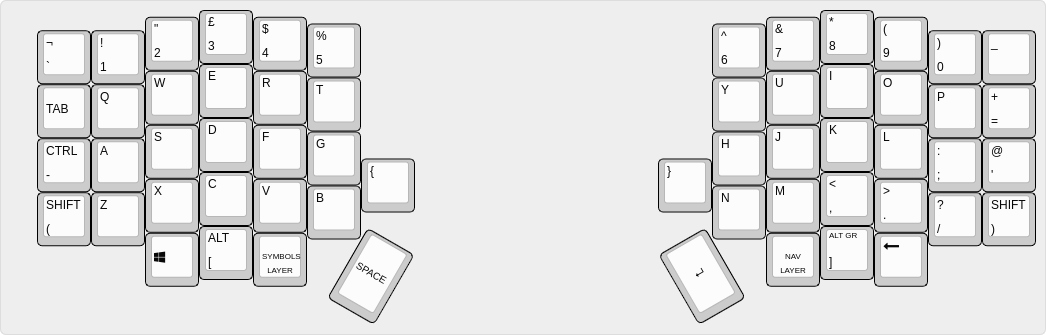
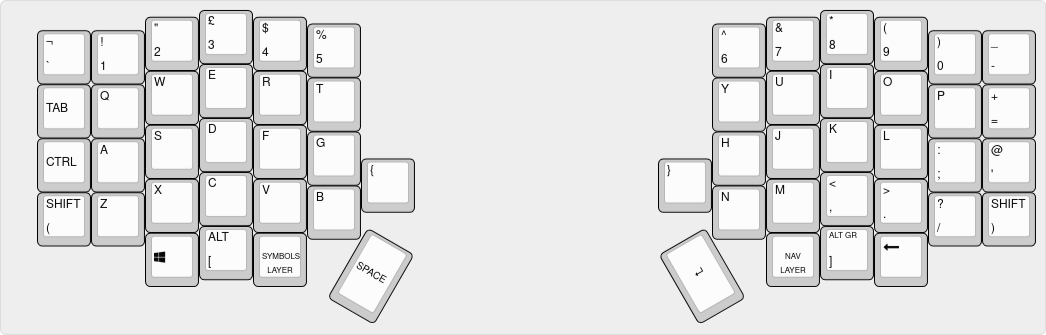
Update README and Default Layout Image

diff --git a/README.md b/README.md
@@ -21,7 +21,6 @@ To provide easy access to commonly used symbols, the keymap uses QMK's
 |`RIGHT_SHIFT`  | `)`             |
 |`LEFT_ALT`     | `[`             |
 |`RIGHT_ALT`    | `]`             |
-|`LEFT_CTRL`    | `-`             |
 
 This should allow for devs to write a lot of code without having to hit SHIFT or
 switch to a symbols layer to perform common code symbols.
@@ -29,7 +28,6 @@ switch to a symbols layer to perform common code symbols.
 Furthermore a few extra tweaks have been made to the default layer to minimize
 layer switching:
 
-* Dedicated underscore (`_`) key.
 * Dedicated curly bracket (`{` and `}`) keys.
 
 ### Up to 20 F-Keys
